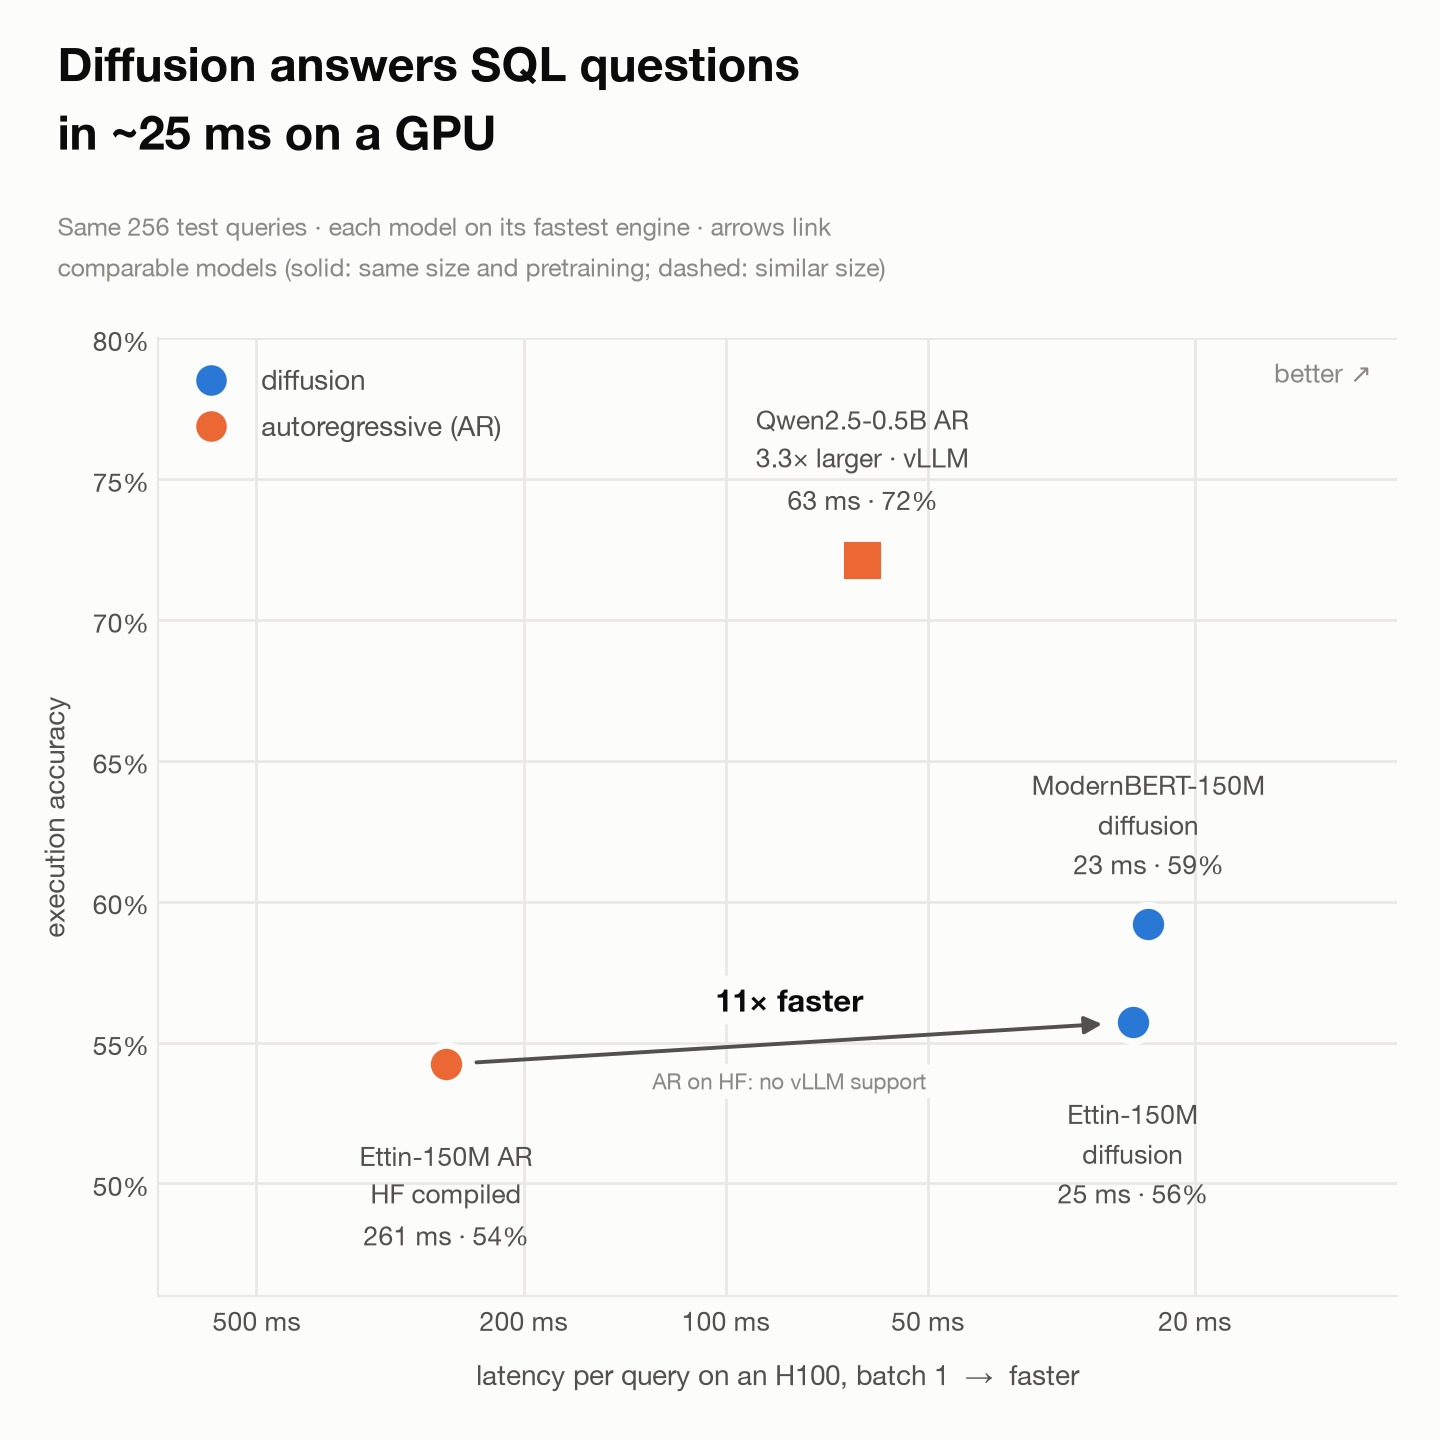
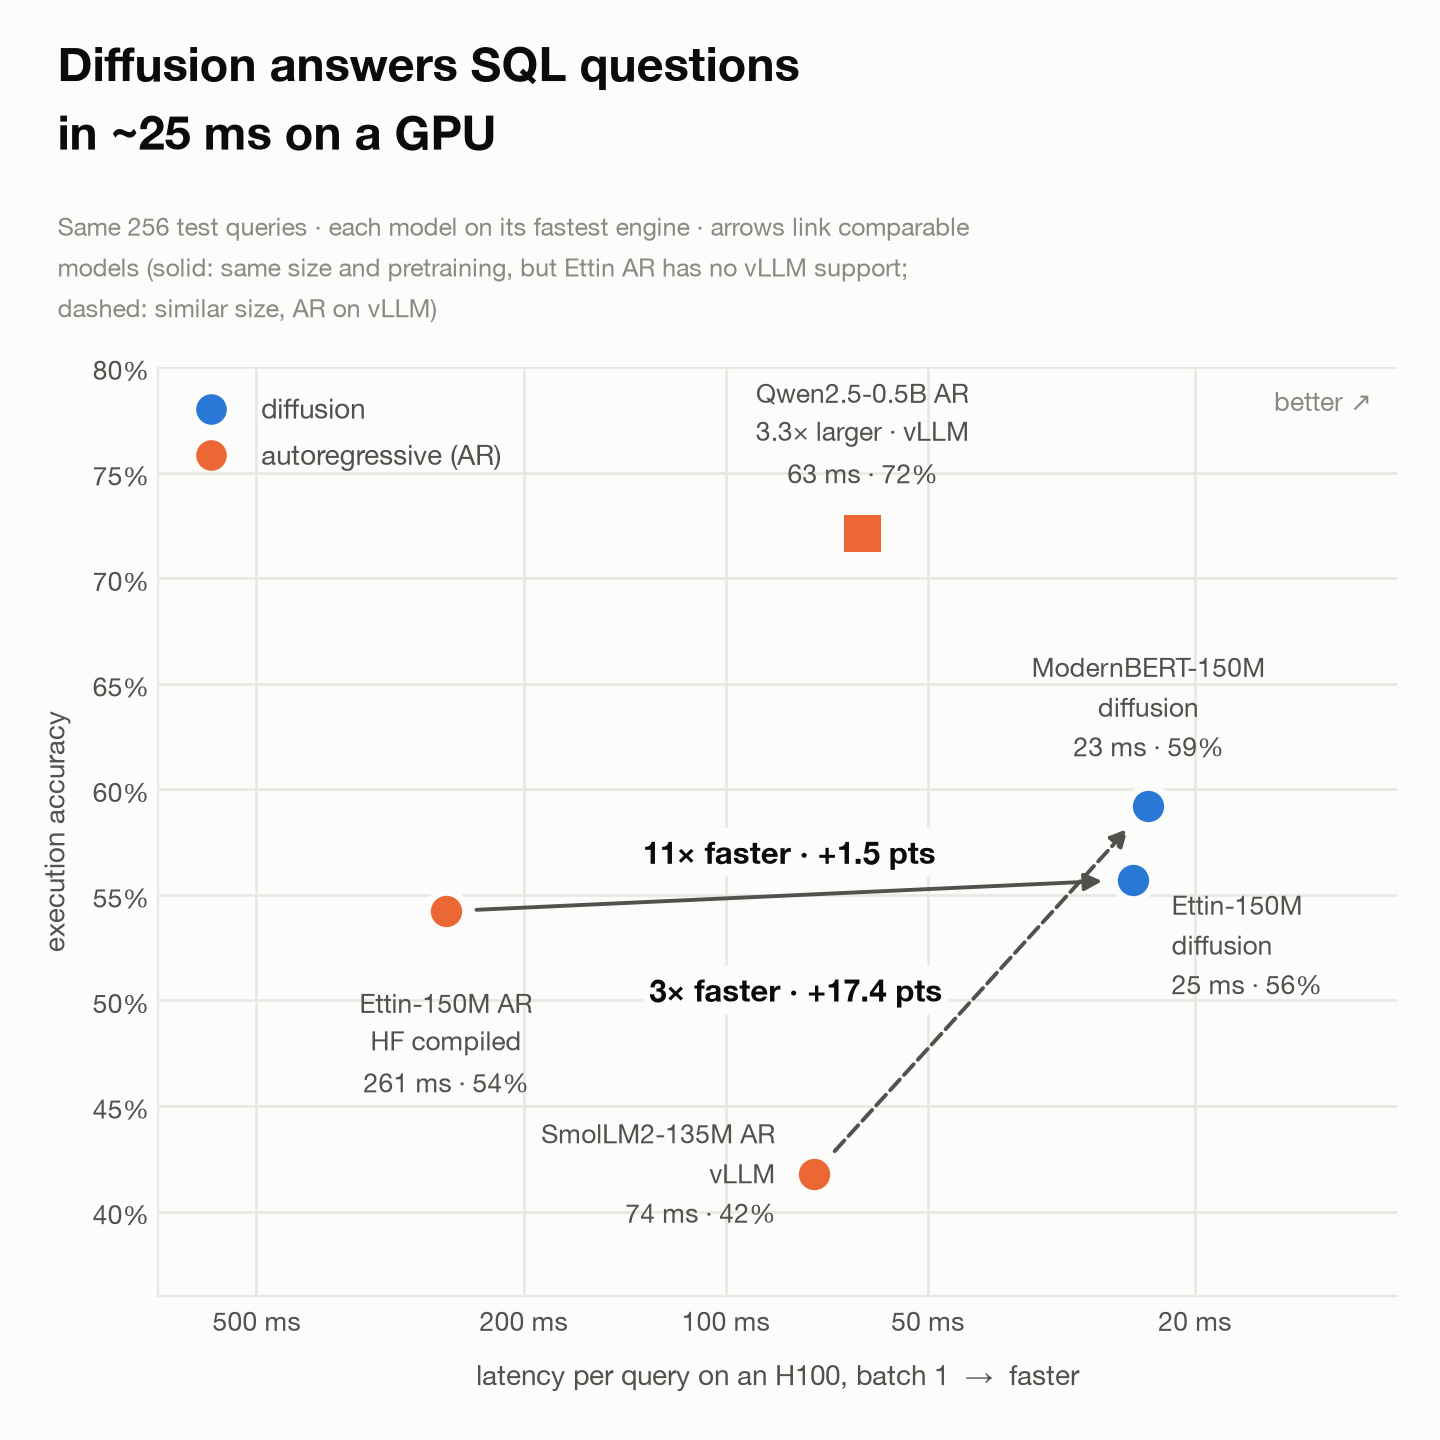
chart: GPU square with SmolLM2 vLLM comparison; headline chart updated
Claude-Session: https://claude.ai/code/session_01G6Bm8s1uyizXtz9t5ZCZAw

diff --git a/experiments/2026-10-12_gpu-session/make_gpu_square.py b/experiments/2026-10-12_gpu-session/make_gpu_square.py
@@ -15,16 +15,17 @@ from make_headline_chart import COLOR, GRID, HERE, INK, INK_2, MUTED, SURFACE, l
 # (label, arm, square marker = larger reference model, summary, label offset (dx, dy, ha))
 POINTS = [
     ("Qwen2.5-0.5B AR\n3.3× larger · vLLM", "ar", True, "sql-ar-qwen25-coder-0.5b-ar-vllm", (0, 14, "center")),
-    ("SmolLM2-135M AR\nvLLM", "ar", False, "smollm135-ar-vllm", (0, -26, "center")),
+    ("SmolLM2-135M AR\nvLLM", "ar", False, "smollm135-ar-vllm", (-14, 0, "right")),
     ("Ettin-150M AR\nHF compiled", "ar", False, "ettin150-ar-10ep-bf16-compiled", (0, -26, "center")),
     ("ModernBERT-150M\ndiffusion", "diffusion", False, "modernbert-isolated-distilled-bf16-cudagraphs", (0, 14, "center")),
     ("Ettin-150M\ndiffusion", "diffusion", False, "ettin150-diffusion-iso-10ep-distilled-bf16-cudagraphs",
-     (0, -26, "center")),
+     (14, -2, "left")),
 ]
-PAIRS = [  # (AR, diffusion, linestyle, footnote under the speedup)
+PAIRS = [  # (AR, diffusion, linestyle, footnote, label offset (dx, dy, ha) from the arrow midpoint)
     ("ettin150-ar-10ep-bf16-compiled", "ettin150-diffusion-iso-10ep-distilled-bf16-cudagraphs", "solid",
-     "AR on HF: no vLLM support"),
-    ("smollm135-ar-vllm", "modernbert-isolated-distilled-bf16-cudagraphs", "dashed", "both on their fastest engine"),
+     "AR on HF: no vLLM support", (0, 9, "center")),
+    ("smollm135-ar-vllm", "modernbert-isolated-distilled-bf16-cudagraphs", "dashed",
+     "both on their fastest engine", (-14, 0, "right")),
 ]
 
 
@@ -33,7 +34,7 @@ def main():
     fig, ax = plt.subplots(figsize=(7.2, 7.2), facecolor=SURFACE)
     ax.set_facecolor(SURFACE)
 
-    for ar_name, diff_name, style, note in PAIRS:
+    for ar_name, diff_name, style, note, (ldx, ldy, lha) in PAIRS:
         a, d = load("gpu", ar_name), load("gpu", diff_name)
         if a is None or d is None:
             continue
@@ -42,11 +43,9 @@ def main():
                     arrowprops=dict(arrowstyle="-|>", color=INK_2, lw=1.4, linestyle=style, shrinkA=11, shrinkB=11,
                                     mutation_scale=13))
         mid = ((xa * xd) ** 0.5, (ya + yd) / 2)
-        ax.annotate(f"{xa / xd:.0f}× faster", mid, xytext=(0, 9), textcoords="offset points", ha="center",
-                    va="bottom", fontsize=11, color=INK, fontweight="bold",
+        ax.annotate(f"{xa / xd:.0f}× faster · {yd - ya:+.1f} pts", mid, xytext=(ldx, ldy), textcoords="offset points",
+                    ha=lha, va="bottom" if ldy > 0 else "center", fontsize=11, color=INK, fontweight="bold",
                     bbox=dict(boxstyle="round,pad=0.2", facecolor=SURFACE, edgecolor="none"))
-        ax.annotate(note, mid, xytext=(0, -9), textcoords="offset points", ha="center", va="top", fontsize=8,
-                    color=MUTED, bbox=dict(boxstyle="round,pad=0.2", facecolor=SURFACE, edgecolor="none"))
 
     for label, arm, big, name, (dx, dy, ha) in POINTS:
         s = load("gpu", name)
@@ -56,11 +55,12 @@ def main():
         ax.scatter(x, y, s=260 if big else 190, marker="s" if big else "o", color=COLOR[arm], edgecolor=SURFACE,
                    linewidth=2.5, zorder=4)
         ax.annotate(f"{label}\n{x:.0f} ms · {y:.0f}%", (x, y), xytext=(dx, dy), textcoords="offset points", ha=ha,
-                    va="bottom" if dy > 0 else "top", fontsize=9.5, color=INK_2, linespacing=1.3)
+                    va="center" if dy == 0 else ("bottom" if dy > 0 else "top"), fontsize=9.5, color=INK_2,
+                    linespacing=1.3)
 
     ax.set_xscale("log")
     ax.set_xlim(700, 10)  # reversed: faster to the right, so up-and-right is better
-    ax.set_ylim(46, 80)
+    ax.set_ylim(36, 80)
     ax.set_xticks([500, 200, 100, 50, 20])
     ax.xaxis.set_major_formatter(matplotlib.ticker.FuncFormatter(lambda v, _: f"{v:g} ms"))
     ax.xaxis.set_minor_formatter(matplotlib.ticker.NullFormatter())
@@ -81,10 +81,11 @@ def main():
     ax.legend(handles=handles, loc="upper left", frameon=False, fontsize=10, labelcolor=INK_2)
     fig.suptitle("Diffusion answers SQL questions\nin ~25 ms on a GPU", x=0.04, y=0.975, ha="left", va="top",
                  fontsize=17, fontweight="bold", color=INK, linespacing=1.15)
-    fig.text(0.04, 0.855, "Same 256 test queries · each model on its fastest engine · arrows link\n"
-             "comparable models (solid: same size and pretraining; dashed: similar size)",
+    fig.text(0.04, 0.855, "Same 256 test queries · each model on its fastest engine · arrows link comparable\n"
+             "models (solid: same size and pretraining, but Ettin AR has no vLLM support;\n"
+             "dashed: similar size, AR on vLLM)",
              fontsize=9, color=MUTED, va="top", linespacing=1.4)
-    fig.subplots_adjust(left=0.11, right=0.97, bottom=0.1, top=0.765)
+    fig.subplots_adjust(left=0.11, right=0.97, bottom=0.1, top=0.745)
     out = os.path.join(HERE, "plots", "gpu_square.png")
     fig.savefig(out, dpi=200, facecolor=SURFACE)
     print(out)
